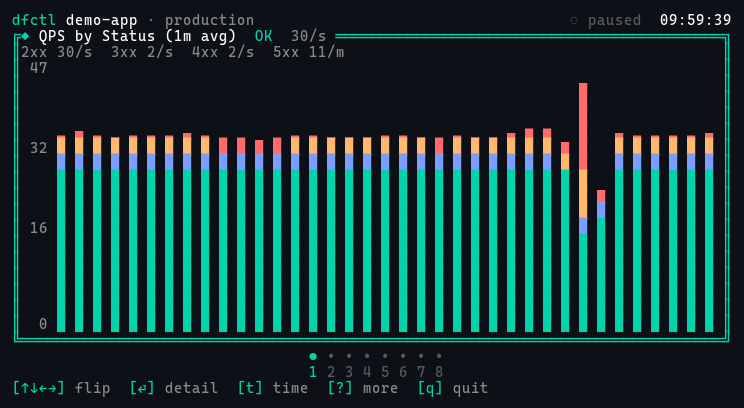
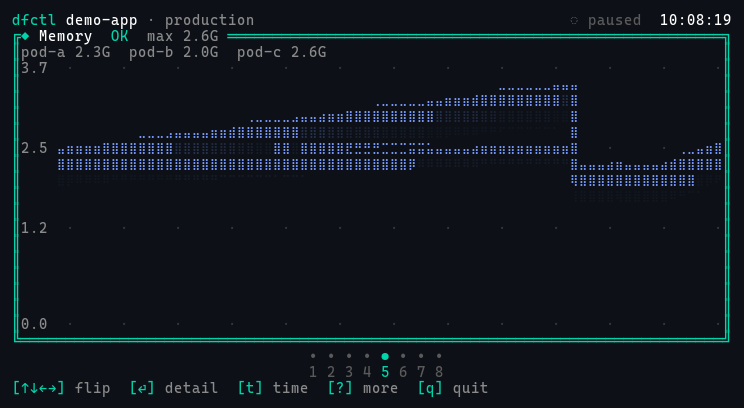
phase-7: fix phone-pager ghosting + pod_row aggregate-only fallback
Two real bugs from user's iPhone screenshot:

1. **POD row showed 0.0/0.0/0.0 when metric had no per-pod series.**
   On QPS, Latency, ErrorRate the platform usually reports aggregates only
   (load-balanced across pods). The old pod_row code blindly displayed
   `current=0, avg=0, p99=0` for every pod, which the user correctly
   pointed out was useless.

   New behaviour mirrors the desktop pod_card fix from phase-3:
   - per-pod series present  → metric value + avg + p99 + sparkline
   - per-pod series absent   → status + cpu + mem + uptime/restart from PodInfo

   pod-c with a recent restart now reads `pod-c RESTART cpu 53.9% mem 2.5G
   » restart 26m ago` — actionable instead of "0.0 across the board".

2. **Phone-tier pager left Braille ghosting in unused cells.**
   `paint_bg` was setting BG colour but not clearing characters. Termius
   (iOS SSH) doesn't aggressively reset per-cell, so when the user flipped
   panels, the new panel's blank areas still showed the previous panel's
   sparkline / chart pixels — looked like a "密集方阵" in the bottom-right
   on the user's screenshot.

   Fix: set_char(' ') alongside set_bg/set_fg. Per frame this writes ~2K
   extra cells but ratatui's diff still suppresses unchanged cells, so the
   ANSI volume cost is zero in the steady state.

diff --git a/src/commands/monitor/widgets/pod_row.rs b/src/commands/monitor/widgets/pod_row.rs
@@ -7,7 +7,15 @@ use ratatui::style::{Modifier, Style};
 use ratatui::text::{Line, Span};
 use ratatui::widgets::{Paragraph, Widget};
 
-/// Single-line pod summary for compact layouts (phone single-metric).
+/// Single-line pod summary for compact layouts (phone single-metric view).
+///
+/// When the metric has a per-pod series, this renders:
+///     ◉ pod-a   42ms  avg 39ms  p99 51ms  ▁▂▃▂▄▆
+///
+/// When the metric is aggregate-only (e.g. QPS, Latency on most platforms),
+/// it falls back to the PodInfo fields the user actually cares about — never
+/// "0.0 / 0.0 / 0.0" empty placeholders. User feedback was:
+/// "pod 信息都是空的, 除非这台机器明显高于别人否则不如不要".
 pub struct PodRow<'a> {
     pub pod: &'a PodInfo,
     pub series: Option<&'a Series>,
@@ -20,41 +28,115 @@ impl<'a> Widget for PodRow<'a> {
             return;
         }
         let color = pod_color(&self.pod.name);
-        let current = self.series.map(|s| s.current()).unwrap_or(0.0);
-        let stats = self.series.map(|s| s.stats()).unwrap_or_default();
 
-        // layout: ◉ name  current  avg  sparkline
-        let header = Line::from(vec![
+        // ── header chip: ◉ pod-name [STATUS]
+        let mut spans: Vec<Span<'_>> = vec![
             Span::styled("◉ ", Style::default().fg(color.to_color())),
             Span::styled(
                 format!("{:<6}", &self.pod.name),
-                Style::default().fg(TEXT_PRIMARY.to_color()).add_modifier(Modifier::BOLD),
+                Style::default()
+                    .fg(TEXT_PRIMARY.to_color())
+                    .add_modifier(Modifier::BOLD),
             ),
-            Span::styled(
-                format!("{:>7}", format_value(current, self.unit)),
-                Style::default().fg(color.to_color()).add_modifier(Modifier::BOLD),
-            ),
-            Span::styled(
-                format!("  avg {:<6}", format_value(stats.avg, self.unit)),
-                Style::default().fg(TEXT_SECONDARY.to_color()),
-            ),
-            Span::styled(
-                format!("p99 {:<6}", format_value(stats.p99, self.unit)),
-                Style::default().fg(TEXT_SECONDARY.to_color()),
-            ),
-        ]);
-        let prefix_len = header.width() as u16;
-        Paragraph::new(header).render(
-            Rect::new(area.x, area.y, prefix_len.min(area.width), 1),
-            buf,
-        );
-        // sparkline fills the rest of the line
-        if let Some(s) = self.series {
-            let sx = area.x + prefix_len.min(area.width);
-            let sw = area.width.saturating_sub(prefix_len);
-            if sw > 4 {
-                let vals: Vec<f64> = s.points.iter().map(|p| p.1).collect();
-                sparkline(buf, Rect::new(sx, area.y, sw, 1), &vals, color);
+        ];
+
+        match self.series {
+            Some(s) => {
+                // ── per-pod metric available: current + avg + p99 + sparkline ──
+                let stats = s.stats();
+                spans.extend([
+                    Span::styled(
+                        format!("{:>7}", format_value(s.current(), self.unit)),
+                        Style::default()
+                            .fg(color.to_color())
+                            .add_modifier(Modifier::BOLD),
+                    ),
+                    Span::styled(
+                        format!("  avg {:<6}", format_value(stats.avg, self.unit)),
+                        Style::default().fg(TEXT_SECONDARY.to_color()),
+                    ),
+                    Span::styled(
+                        format!("p99 {:<6}", format_value(stats.p99, self.unit)),
+                        Style::default().fg(TEXT_SECONDARY.to_color()),
+                    ),
+                ]);
+                let line = Line::from(spans);
+                let prefix_len = line.width() as u16;
+                Paragraph::new(line).render(
+                    Rect::new(area.x, area.y, prefix_len.min(area.width), 1),
+                    buf,
+                );
+                // sparkline fills the rest of the line
+                let sx = area.x + prefix_len.min(area.width);
+                let sw = area.width.saturating_sub(prefix_len);
+                if sw > 4 {
+                    let vals: Vec<f64> = s.points.iter().map(|p| p.1).collect();
+                    sparkline(buf, Rect::new(sx, area.y, sw, 1), &vals, color);
+                }
+            }
+            None => {
+                // ── no per-pod series: show PodInfo fields instead of 0.0/0.0/0.0 ──
+                let cpu_str = format!("{:.1}%", self.pod.cpu_pct);
+                let mem_gb = self.pod.mem_bytes as f64 / 1024.0 / 1024.0 / 1024.0;
+                let status_color = if self.pod.status == "Running" {
+                    ACCENT_OK
+                } else {
+                    ACCENT_ALERT
+                };
+                spans.extend([
+                    Span::styled(
+                        format!(
+                            "{:<10} ",
+                            if self.pod.last_restart_at.is_some() {
+                                "RESTART"
+                            } else {
+                                &self.pod.status
+                            }
+                        ),
+                        Style::default()
+                            .fg(if self.pod.last_restart_at.is_some() {
+                                ACCENT_WARN.to_color()
+                            } else {
+                                status_color.to_color()
+                            })
+                            .add_modifier(Modifier::BOLD),
+                    ),
+                    Span::styled(
+                        format!("cpu {:<7}", cpu_str),
+                        Style::default().fg(TEXT_SECONDARY.to_color()),
+                    ),
+                    Span::styled(
+                        format!("mem {:<7}", format!("{:.1}G", mem_gb)),
+                        Style::default().fg(TEXT_SECONDARY.to_color()),
+                    ),
+                    Span::styled(
+                        if let Some(at) = self.pod.last_restart_at {
+                            format!(
+                                "» restart {} ago",
+                                crate::commands::monitor::util::ago(at)
+                            )
+                        } else {
+                            format!(
+                                "· up {}",
+                                crate::commands::monitor::util::format_duration_short(
+                                    self.pod.uptime_seconds
+                                )
+                            )
+                        },
+                        Style::default().fg(if self.pod.last_restart_at.is_some() {
+                            ACCENT_WARN.to_color()
+                        } else {
+                            TEXT_DIM.to_color()
+                        }),
+                    ),
+                ]);
+                Paragraph::new(Line::from(spans)).render(
+                    Rect::new(area.x, area.y, area.width, 1),
+                    buf,
+                );
+                // No sparkline when there's no per-pod data — explicitly avoids
+                // the empty-data sparkline artifact (renders as a row of `▁`s)
+                // the user noticed in phone screenshots.
             }
         }
     }

diff --git a/src/commands/monitor/render/helpers.rs b/src/commands/monitor/render/helpers.rs
@@ -8,11 +8,18 @@ use ratatui::style::Style;
 use ratatui::text::{Line, Span};
 use ratatui::widgets::{Paragraph, Widget};
 
+/// Reset the buffer area: clear character, set BG. Without this, terminals
+/// that don't aggressively diff-track per-cell (notably Termius on iOS) keep
+/// Braille blobs from the previous frame visible — e.g. when the phone-tier
+/// pager flips between panels, the new panel's blank regions show the old
+/// panel's sparkline / chart pixels. Clearing the char fixes the artifact.
 pub fn paint_bg(buf: &mut Buffer, area: Rect) {
     for y in area.y..area.y + area.height {
         for x in area.x..area.x + area.width {
             if let Some(c) = buf.cell_mut((x, y)) {
+                c.set_char(' ');
                 c.set_bg(BG.to_color());
+                c.set_fg(BG.to_color());
             }
         }
     }
